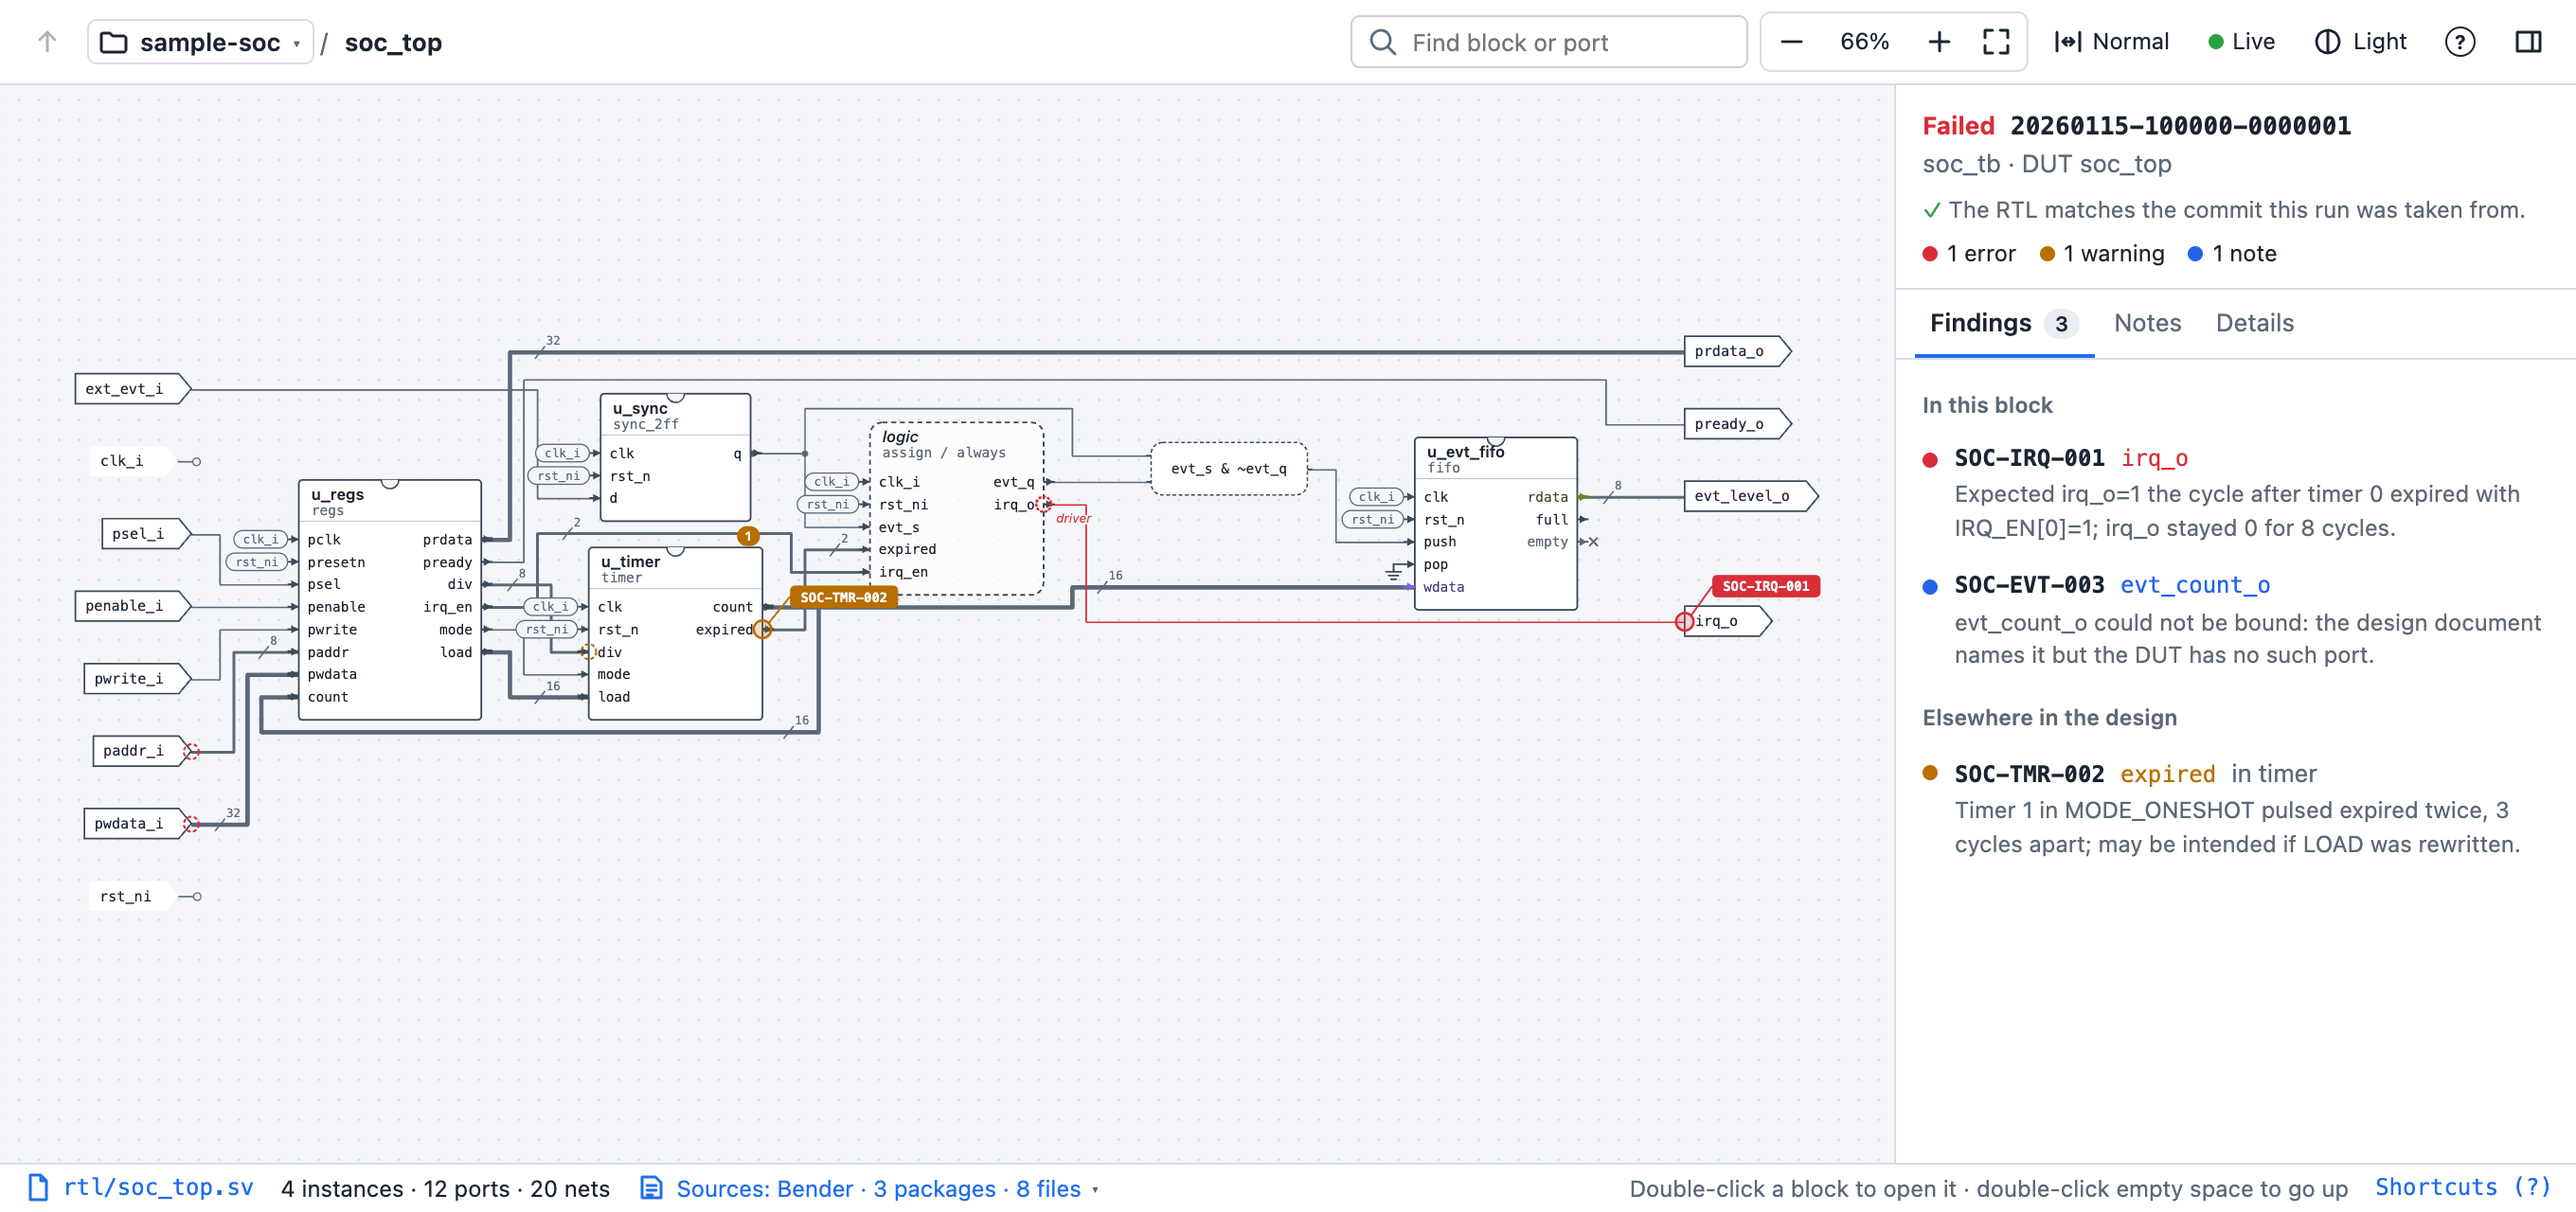
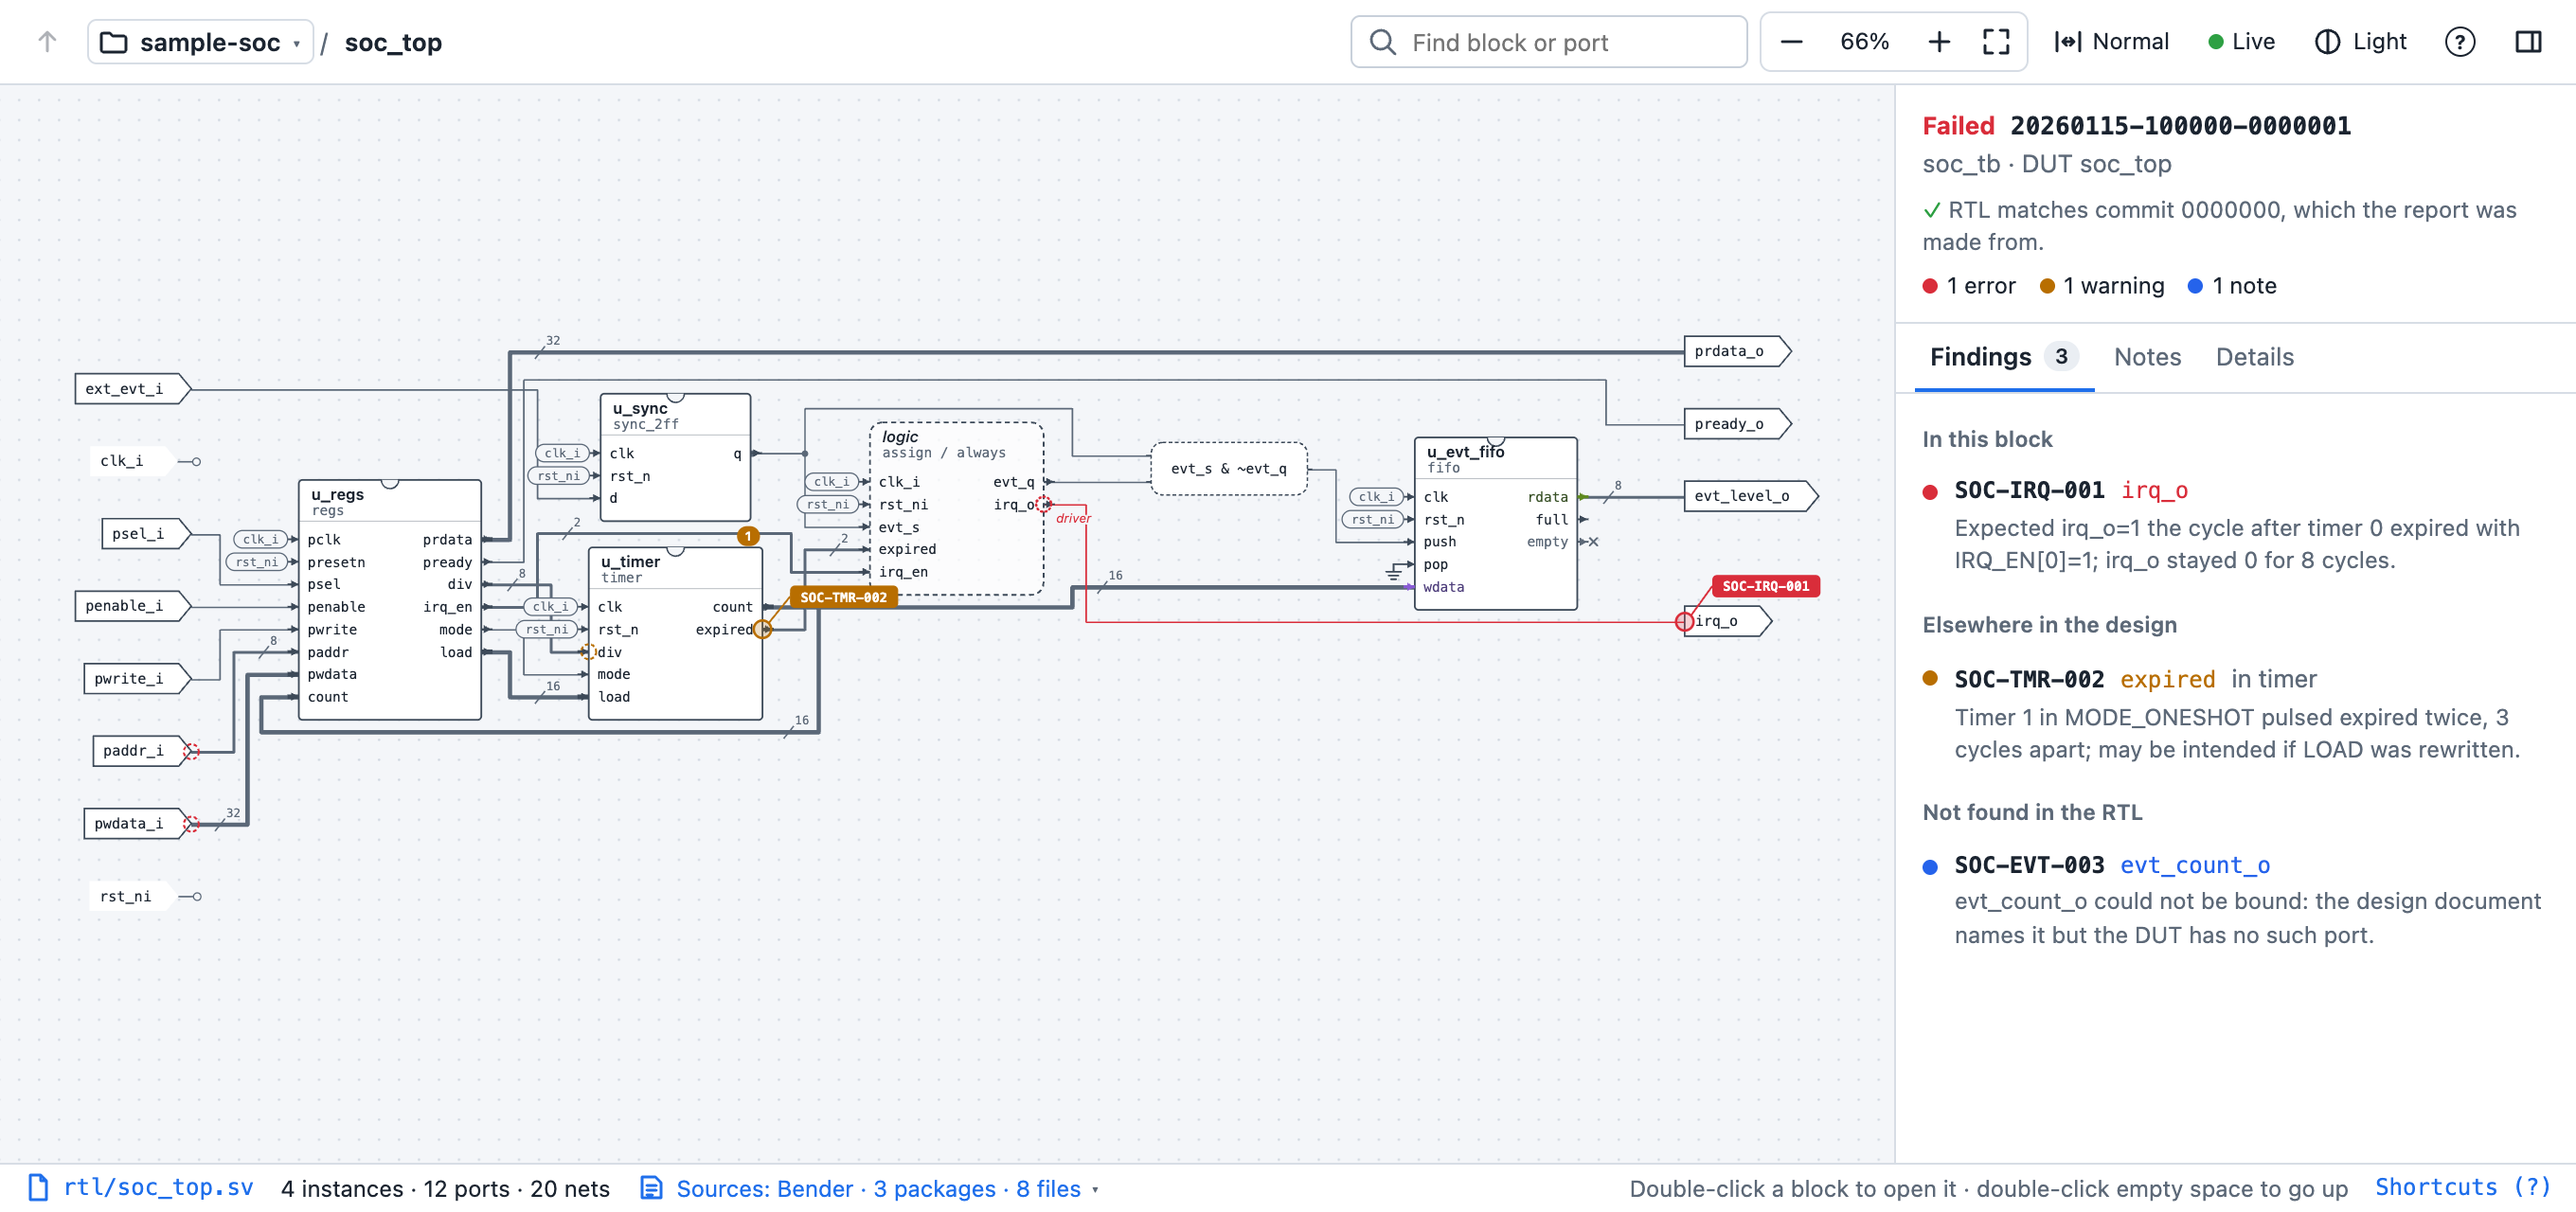
A finding whose port isn't in the RTL is listed under 'Not found in the RTL'; say 'report' where the UI said 'run'
- The Findings tab put a finding whose port could not be bound under 'In this block' whenever
  its module was the one being viewed, contradicting the guide. It is now 'here' only when it
  resolved to a port in this module.
- The freshness line, empty states and run tooltip say 'report' instead of 'run'.
- Overview screenshot retaken.

Changed region(s): [[0.75, 0.1562, 1.0, 0.7812]]

diff --git a/src/webview/main.ts b/src/webview/main.ts
@@ -978,14 +978,14 @@ function runHeader() {
   );
 }
 
-/** Does the RTL still match what this run was taken from? */
+/** Does the RTL still match what this report was made from? */
 function freshnessNote(r: NonNullable<ViewMsg['run']>) {
   const f = r.freshness;
-  if (!f) return h('div', { class: 'muted small fresh' }, 'Checking whether the RTL matches this run…');
+  if (!f) return h('div', { class: 'muted small fresh' }, 'Checking whether the RTL matches this report…');
   if (f.state === 'same') return h('div', { class: 'muted small fresh ok' }, f.reason);
   if (f.state === 'unknown') return h('div', { class: 'muted small fresh' }, f.reason);
   return h('div', { class: 'fresh-warn' },
-    h('div', {}, h('strong', {}, 'RTL changed since this run. '), f.reason, ' Findings in these files may point at code the test never ran:'),
+    h('div', {}, h('strong', {}, 'RTL changed since this report. '), f.reason, ' Findings in these files may point at code the test never ran:'),
     h('ul', { class: 'plain' }, ...f.changed.slice(0, 6).map(c =>
       h('li', {}, h('button', { class: 'link mono', onclick: () => vscode.postMessage({ type: 'openFile', file: c.file, line: 0 }) }, c.rel)))),
     f.changed.length > 6 ? h('div', { class: 'muted small' }, `and ${f.changed.length - 6} more`) : null);
@@ -993,7 +993,7 @@ function freshnessNote(r: NonNullable<ViewMsg['run']>) {
 
 function findingsList() {
   if (!view?.run) return h('p', { class: 'muted pad' }, 'Without a verification report, the diagram is a plain design browser. Findings (failed checks) appear here when a report is open.');
-  if (!view.findings.length) return h('div', { class: 'pad clean' }, h('div', { class: 'clean-title' }, 'No findings in this run'), h('p', { class: 'muted' }, 'Every rule in the verification plan was checked and is clean.'));
+  if (!view.findings.length) return h('div', { class: 'pad clean' }, h('div', { class: 'clean-title' }, 'No findings in this report'), h('p', { class: 'muted' }, 'Every rule in the verification plan was checked and is clean.'));
   const order = (f: FindingRow) => (f.here ? 0 : f.resolved ? 1 : 2) * 10 + ({ error: 0, warning: 1, note: 2, none: 3 }[f.level]);
   const rows = [...view.findings].sort((a, b) => order(a) - order(b) || a.index - b.index);
   const ul = h('ul', { class: 'flist' });

diff --git a/src/findings/freshness.ts b/src/findings/freshness.ts
@@ -58,10 +58,10 @@ export async function runFreshness(run: RunSource, files: string[], anchorDir: s
   if (run.dirty) {
     return { state: changed.length ? 'unknown' : 'same', changed, method: 'git',
       reason: changed.length
-        ? `The run was taken from commit ${short} with uncommitted changes, so it can't be told whether the ${changed.length} RTL file${changed.length === 1 ? '' : 's'} differing from that commit match what was simulated.`
+        ? `The tests ran on commit ${short} with uncommitted changes, so it can't be told whether the ${changed.length} RTL file${changed.length === 1 ? '' : 's'} differing from that commit match what was simulated.`
         : `RTL matches commit ${short} (the run also had uncommitted changes, which can't be checked).` };
   }
   return changed.length
-    ? { state: 'changed', changed, method: 'git', reason: `${changed.length} RTL file${changed.length === 1 ? ' has' : 's have'} changed since commit ${short}, which the run was taken from.` }
+    ? { state: 'changed', changed, method: 'git', reason: `${changed.length} RTL file${changed.length === 1 ? ' has' : 's have'} changed since commit ${short}, which the report was made from.` }
     : { state: 'same', changed, method: 'git', reason: `RTL matches commit ${short}, which the run was taken from.` };
 }

diff --git a/src/views/runsTree.ts b/src/views/runsTree.ts
@@ -45,7 +45,7 @@ export class RunsTree implements vscode.TreeDataProvider<RunNode> {
           r.simulator ? `${r.simulator.name} ${r.simulator.version}` : '',
           r.gitCommit ? `commit \`${r.gitCommit.slice(0, 10)}\`${r.dirty ? ' (dirty)' : ''}` : '',
           r.totals ? `${r.totals.passed}/${r.totals.tests} tests passed` : '',
-          '', active ? 'Active: findings are shown on the diagram.' : 'Click to show this run on the diagram.',
+          '', active ? 'Active: findings are shown on the diagram.' : 'Click to show this report on the diagram.',
         ].filter(x => x !== undefined).join('\n\n'));
         it.command = { command: 'rtlDiagram.activateRun', title: 'Activate run', arguments: [r.dir] };
         it.contextValue = 'run';

diff --git a/src/panel.ts b/src/panel.ts
@@ -135,7 +135,7 @@ export class DiagramPanel implements vscode.Disposable {
       return {
         index: f.index, ruleId: f.ruleId, level: f.level, message: f.message,
         signal: r?.primary?.signal ?? primaryOf(f)?.name ?? '', module: r?.primary?.module,
-        resolved: r?.primary?.status === 'ok', here: r?.primary?.module === m!.name,
+        resolved: r?.primary?.status === 'ok', here: r?.primary?.status === 'ok' && r?.primary?.module === m!.name,
       };
     }) : [];
     const nm = noteMarksFor(d, this.store.notes, this.top, this.path);
